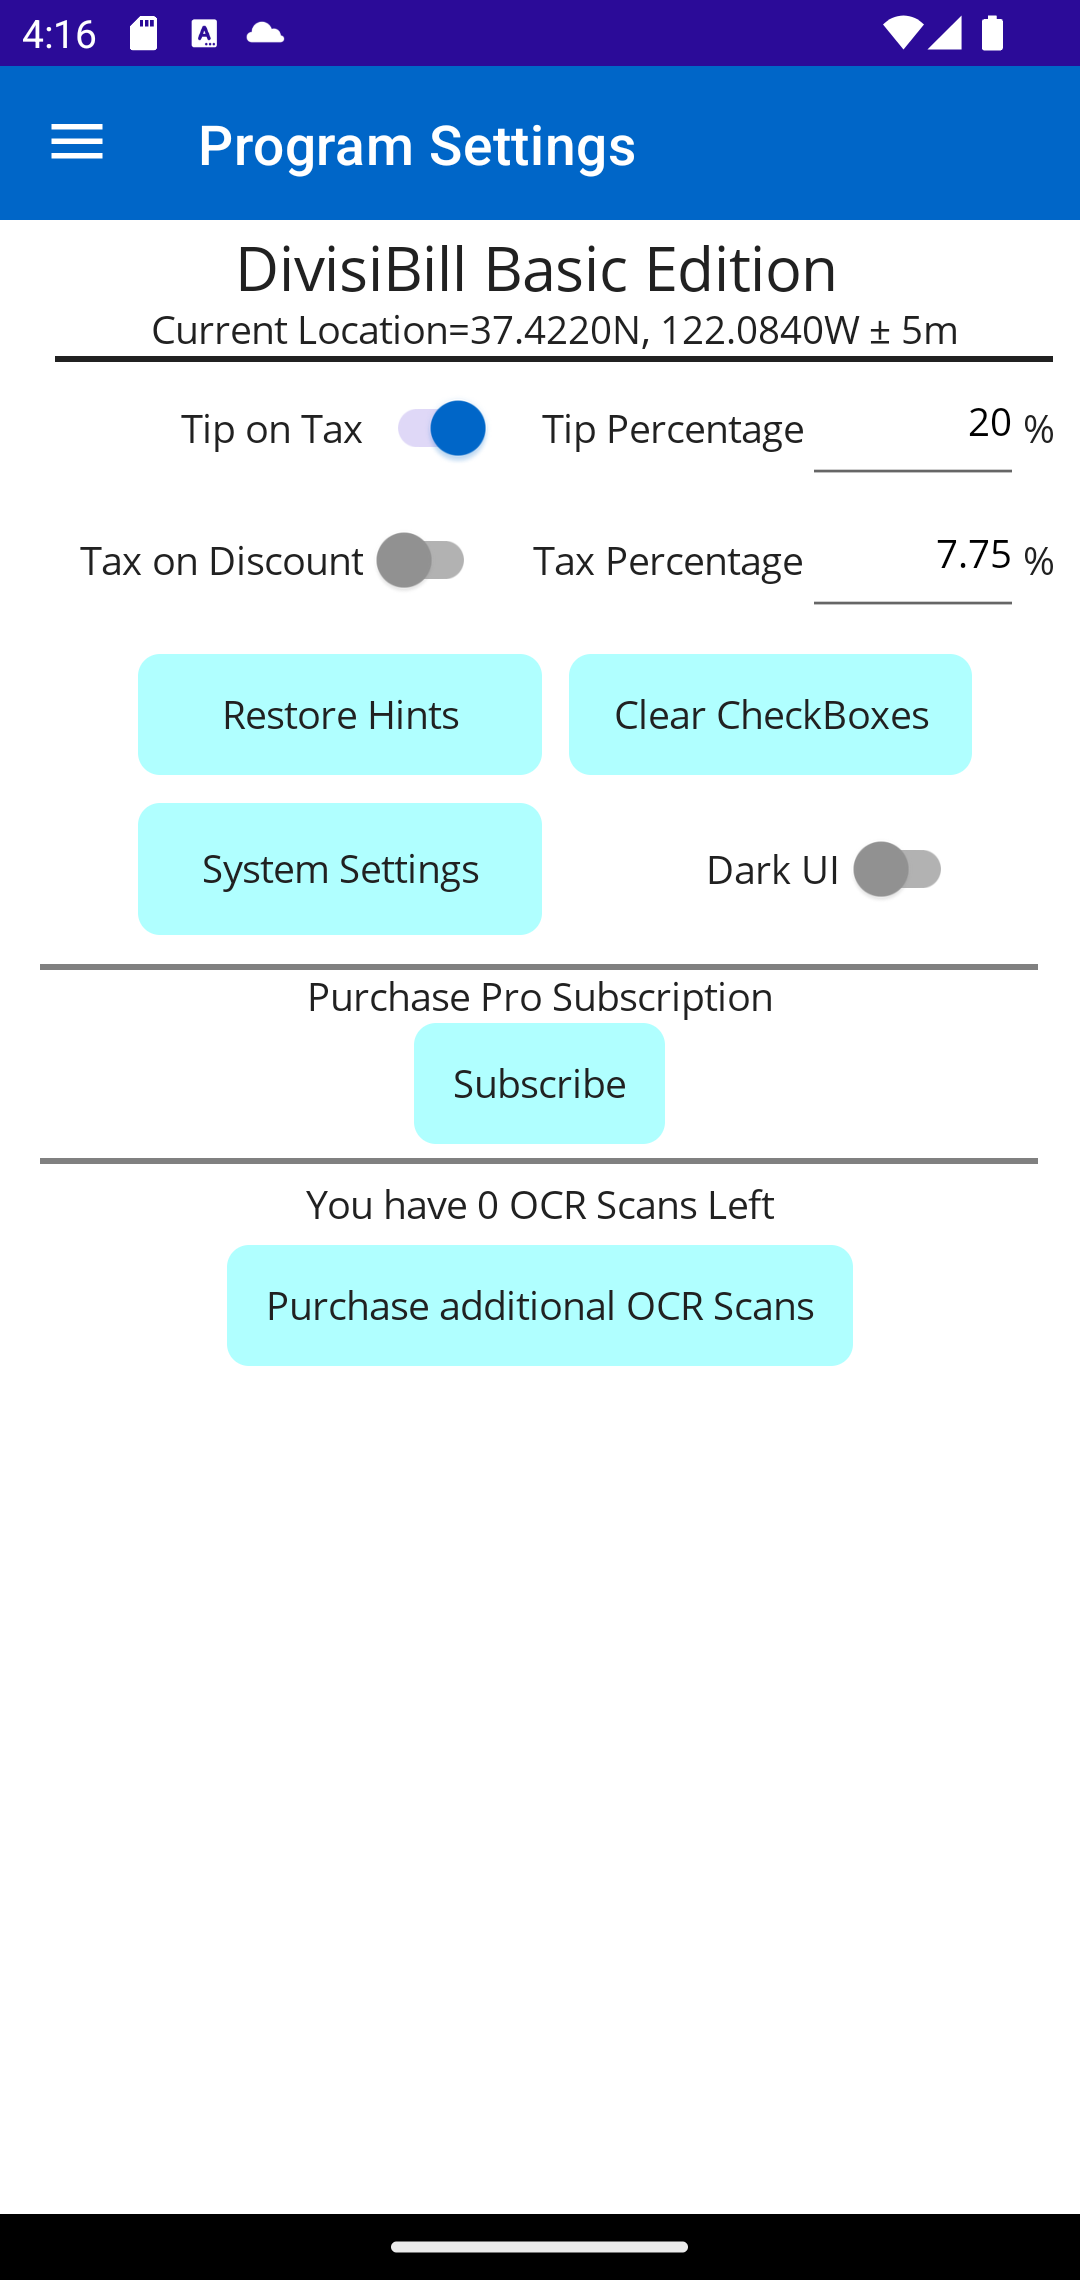
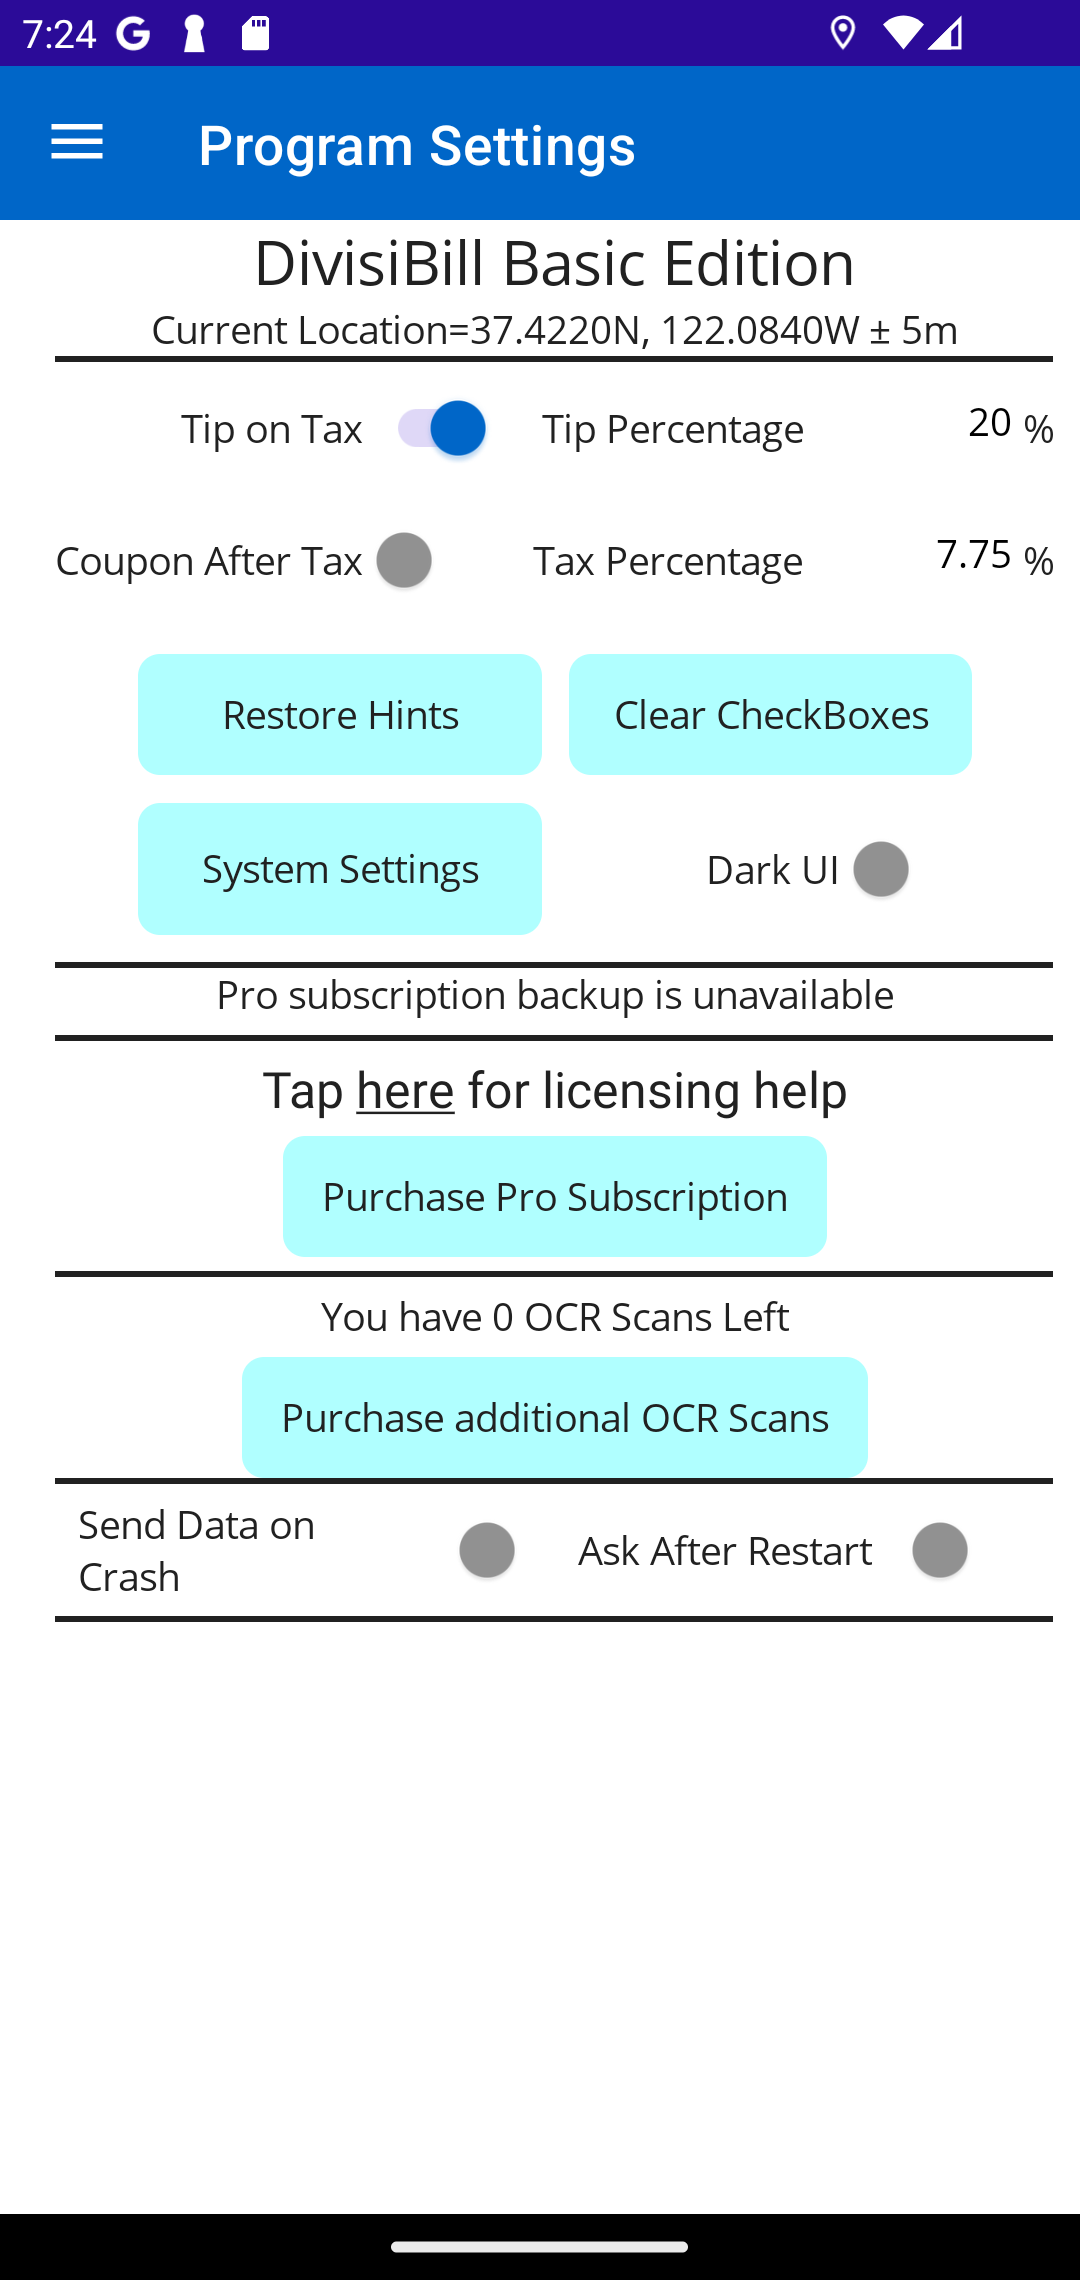
Add Licensing Help section and update related files
- Introduced a "Licensing Help" section in `settingsglossary.html` and `settingsglossary.md` for Pro and OCR license information.
- Updated `settingspage.svg` and `settingspagebasic.svg` to include links to the new section.
- Updated images in `settingspage.png` and `settingspagebasic.png`.

diff --git a/web/divisibill/settingsglossary.html b/web/divisibill/settingsglossary.html
@@ -26,6 +26,8 @@
 <p>If you are running the Professional Edition, the &quot;Allow Cloud Backup&quot; switch allows you to specify whether or not to automatically back up changed items to the cloud. The Basic Edition of DivisiBill cannot use cloud backup but can use manual archiving instead. For more details, see <a href="licensing.html">this</a> page.</p>
 <h2 id="wifi-switch">WiFi Switch</h2>
 <p>This selection is available only in the Professional Edition and is usable only when &quot;Allow Cloud Backup&quot; is set. If you turn on this switch, DivisiBill will automatically back up changed items to the cloud only when a WiFi connection is available to minimize the use of mobile data. If this switch is not set and cloud access is enabled, backup operations will occur whenever Internet connectivity is available.</p>
+<h2 id="licensing-help">Licensing Help</h2>
+<p>Tap here to open up the <a href="licensing.html">licensing help</a> and learn more about Pro and OCR licenses.</p>
 <h2 id="modify-button">Modify Button</h2>
 <p>If you are using the Professional Edition, this button opens up a web site to permit you to view, modify or cancel that subscription.</p>
 <h2 id="subscribe">Subscribe</h2>

diff --git a/web/divisibill/settingsglossary.md b/web/divisibill/settingsglossary.md
@@ -37,6 +37,9 @@ If you are running the Professional Edition, the "Allow Cloud Backup" switch all
 ## WiFi Switch
 
 This selection is available only in the Professional Edition and is usable only when "Allow Cloud Backup" is set. If you turn on this switch, DivisiBill will automatically back up changed items to the cloud only when a WiFi connection is available to minimize the use of mobile data. If this switch is not set and cloud access is enabled, backup operations will occur whenever Internet connectivity is available. 
+## Licensing Help
+
+Tap here to open up the [licensing help](licensing.html) and learn more about Pro and OCR licenses.
 
 ## Modify Button
 
